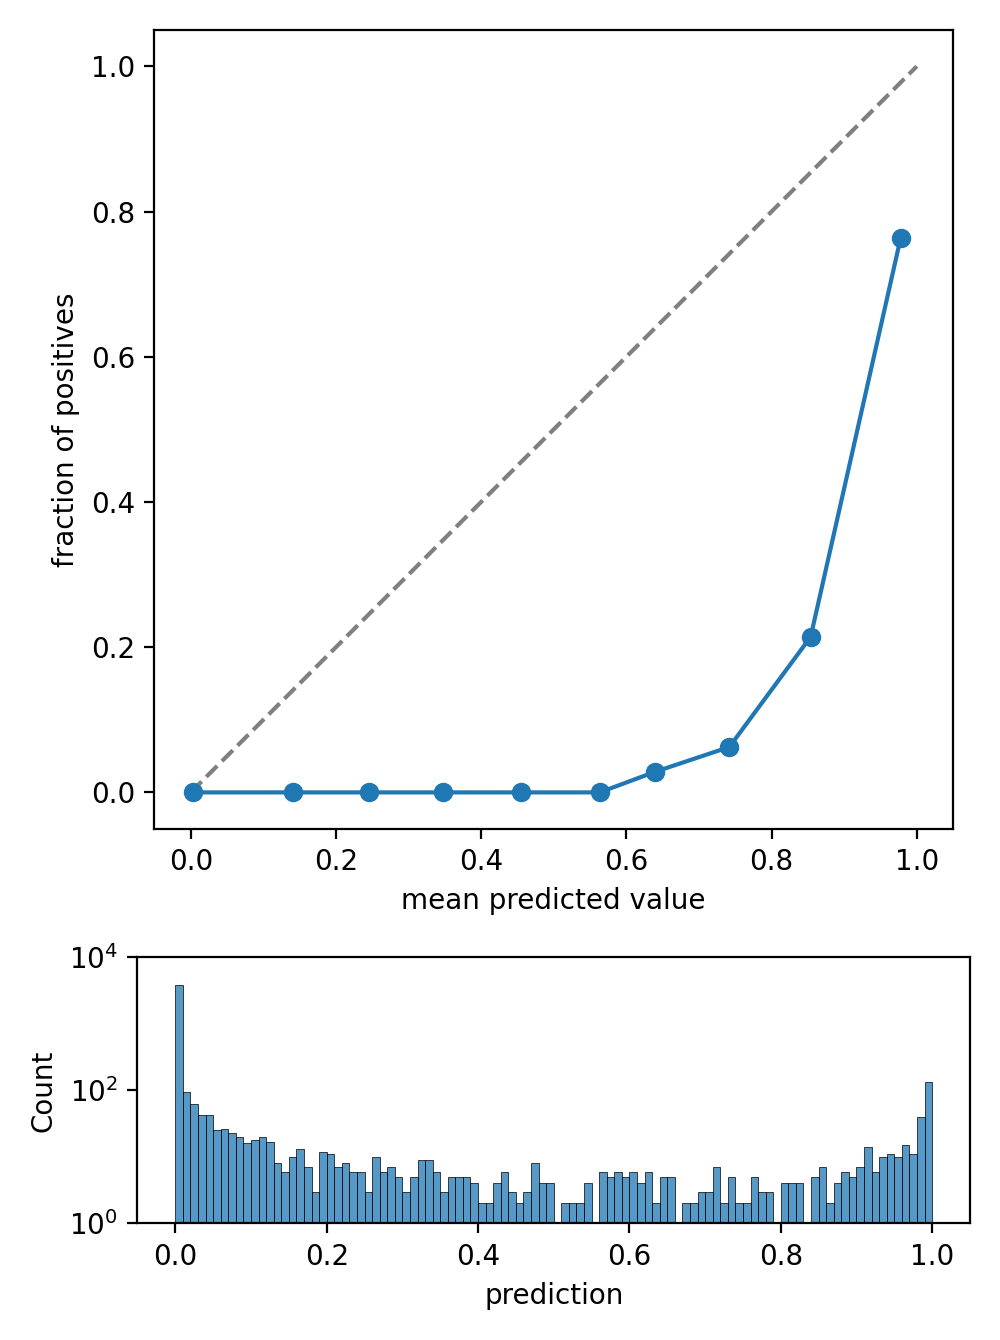
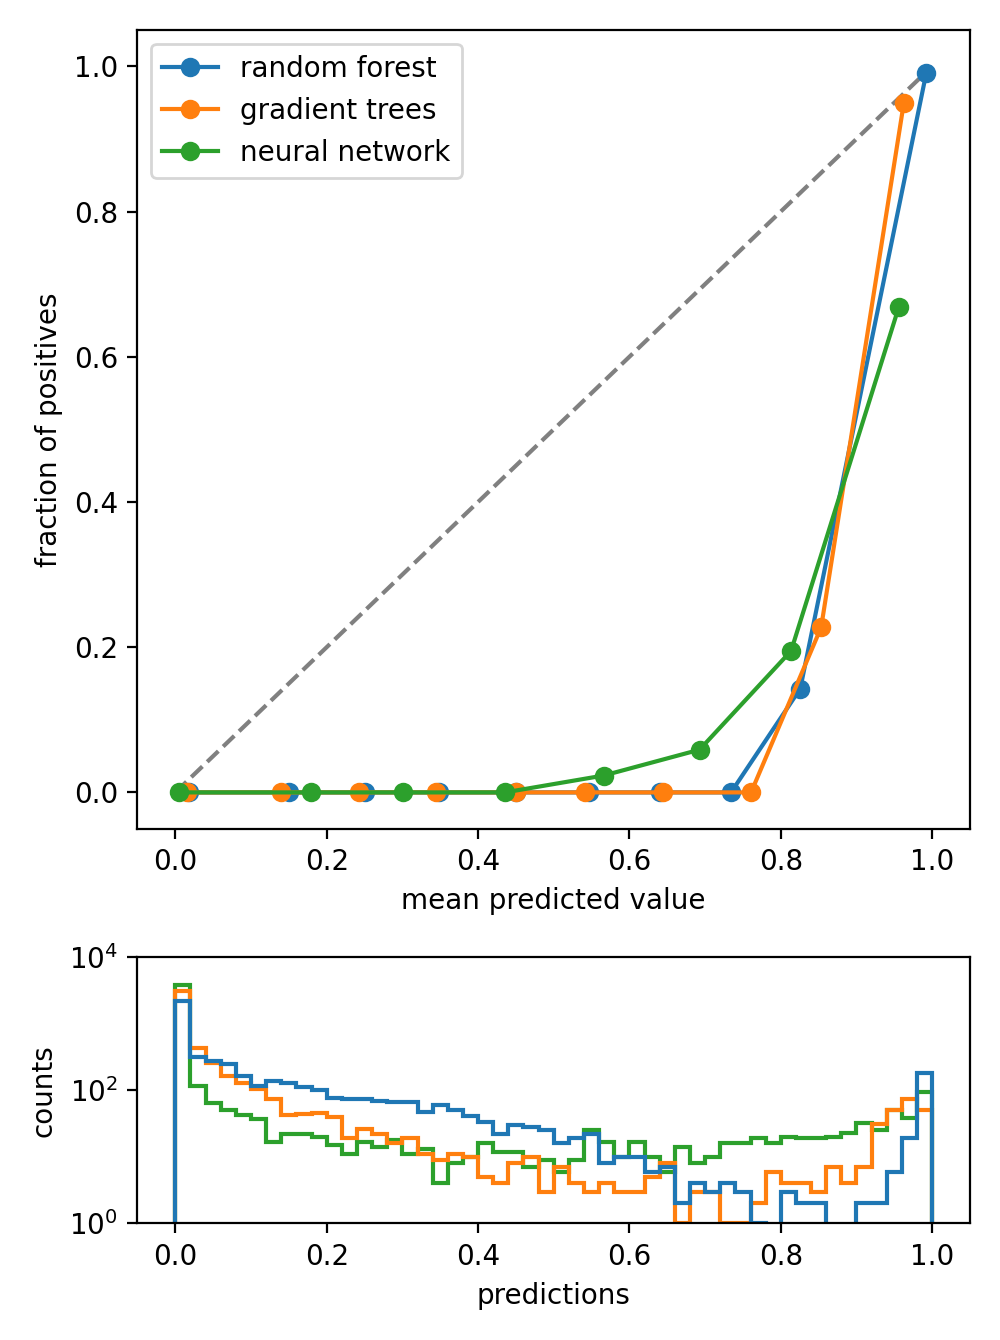
Update and add calibration gallery plot

diff --git a/doc/source/index.rst b/doc/source/index.rst
@@ -66,6 +66,7 @@ Welcome to the :bolditalic:`spellbook` Data Science & Machine Learning Library!
    - :func:`spellbook.plot1D.histogram`
    - :func:`spellbook.plot2D.categorical_histogram`
    - :func:`spellbook.plot.parallel_coordinates`
+   - :class:`spellbook.train.BinaryCalibrationPlot`
 
 
 .. margin:: News
@@ -106,6 +107,9 @@ Welcome to the :bolditalic:`spellbook` Data Science & Machine Learning Library!
              :height: 200px
 
         - .. figure:: /images/parallel-coordinates.png
+             :height: 200px
+
+        - .. figure:: /images/calibration.png
              :height: 200px
 
 
